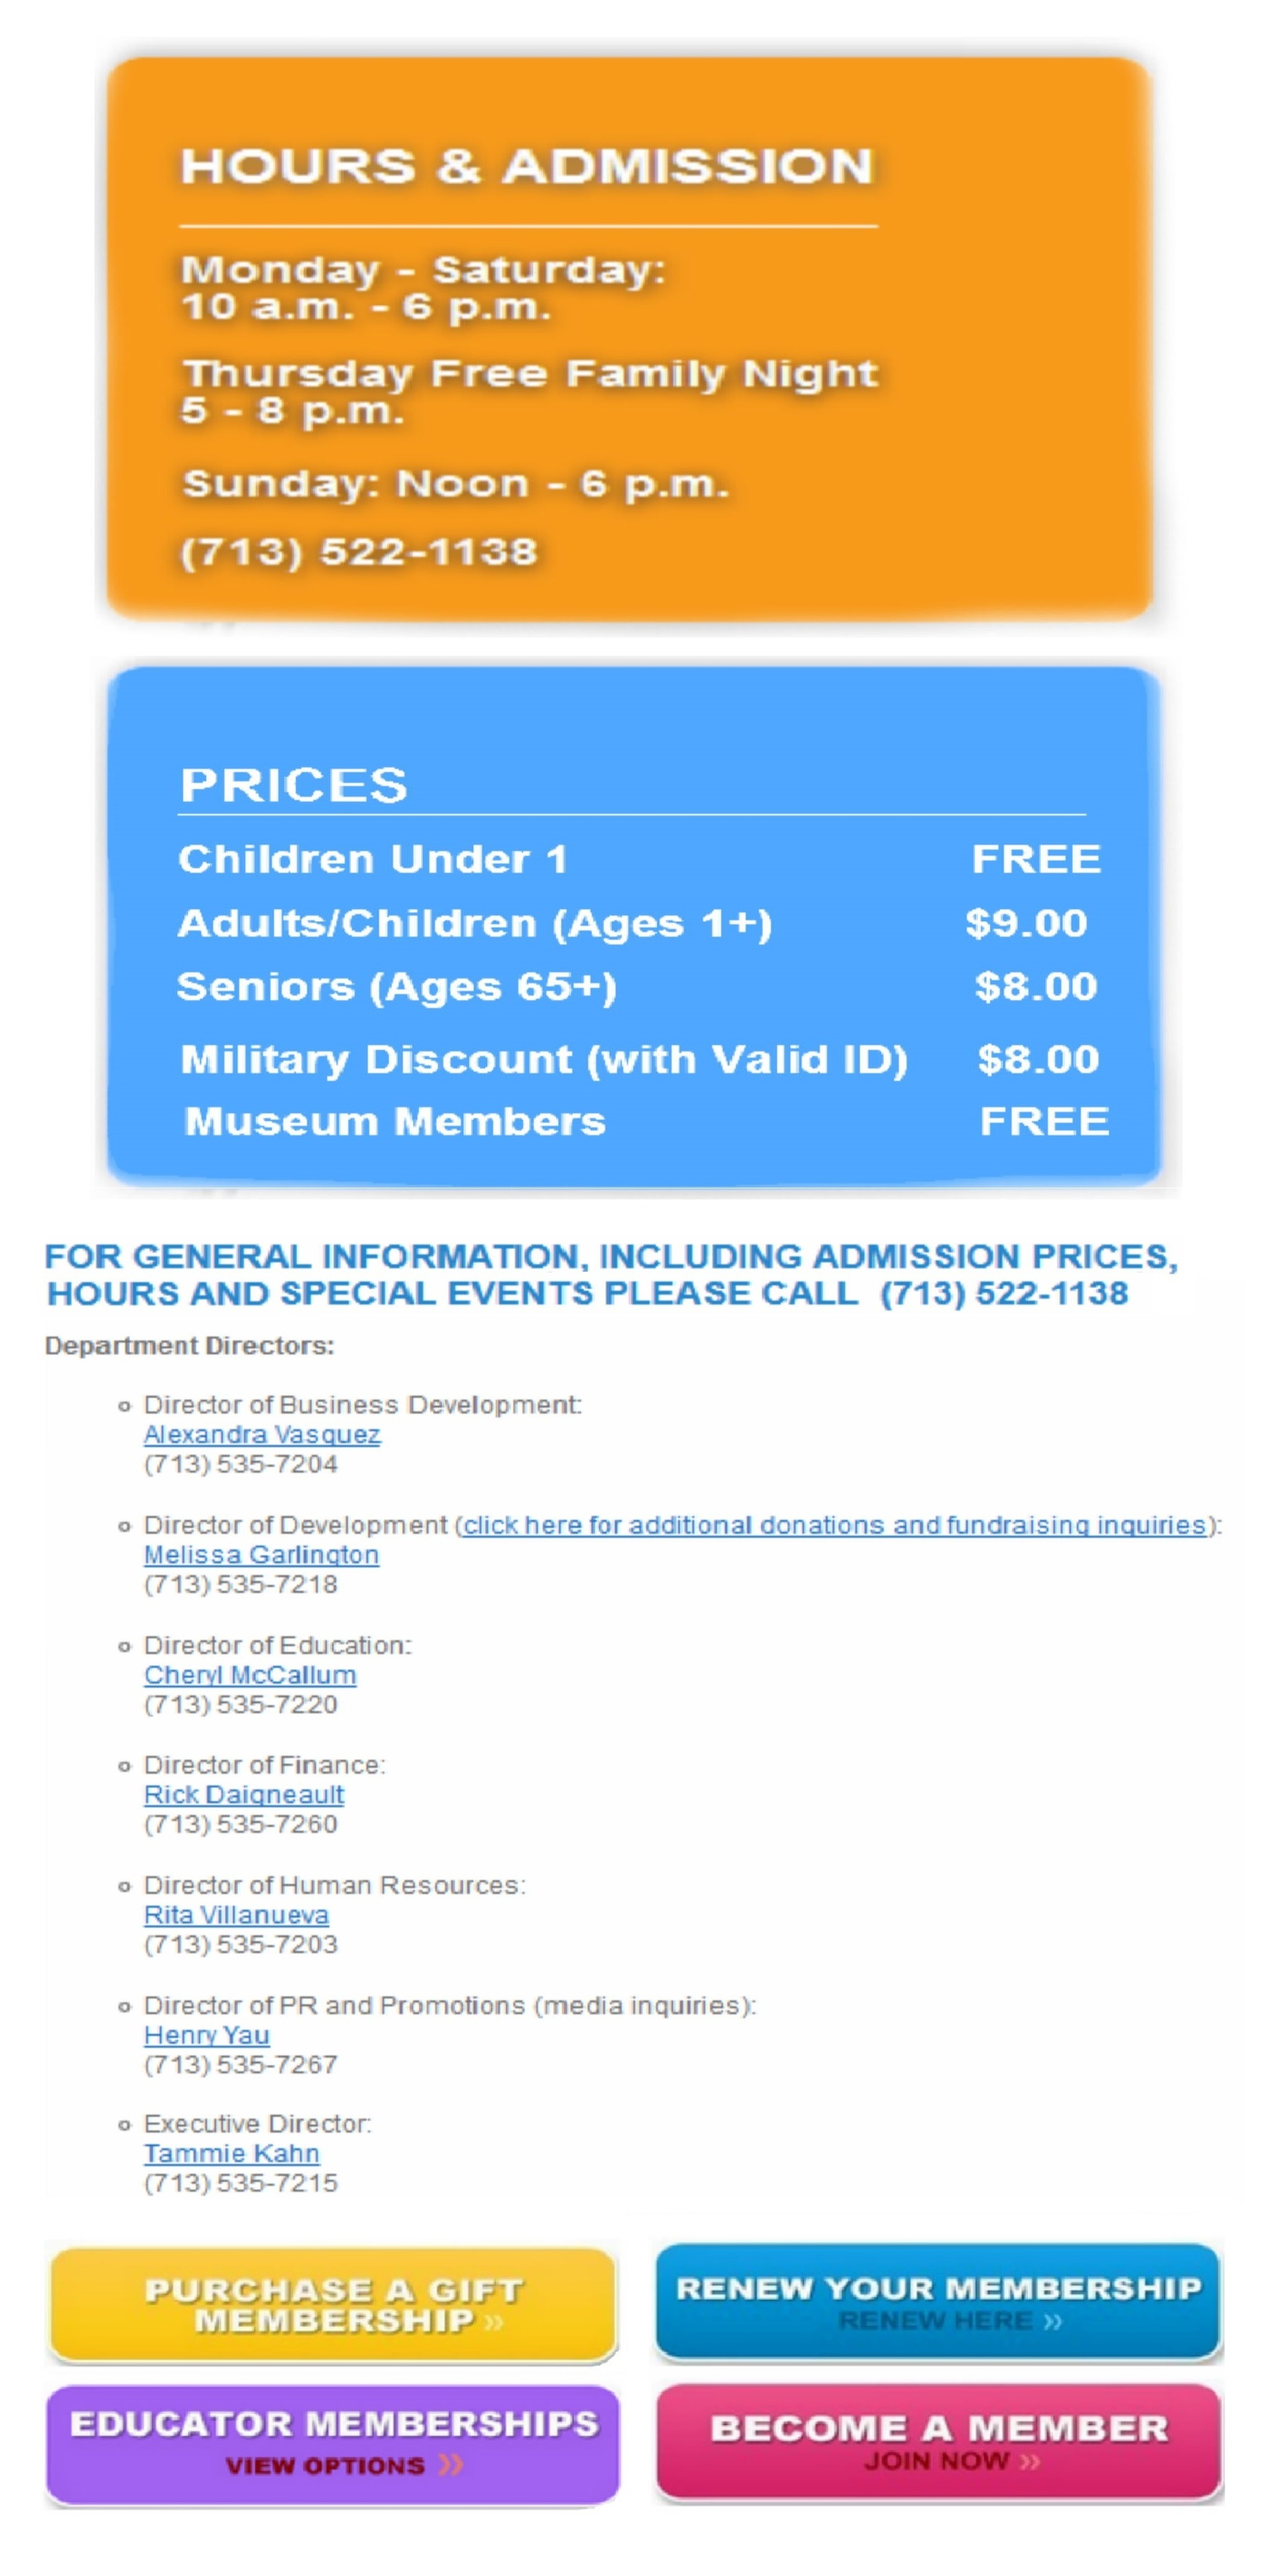
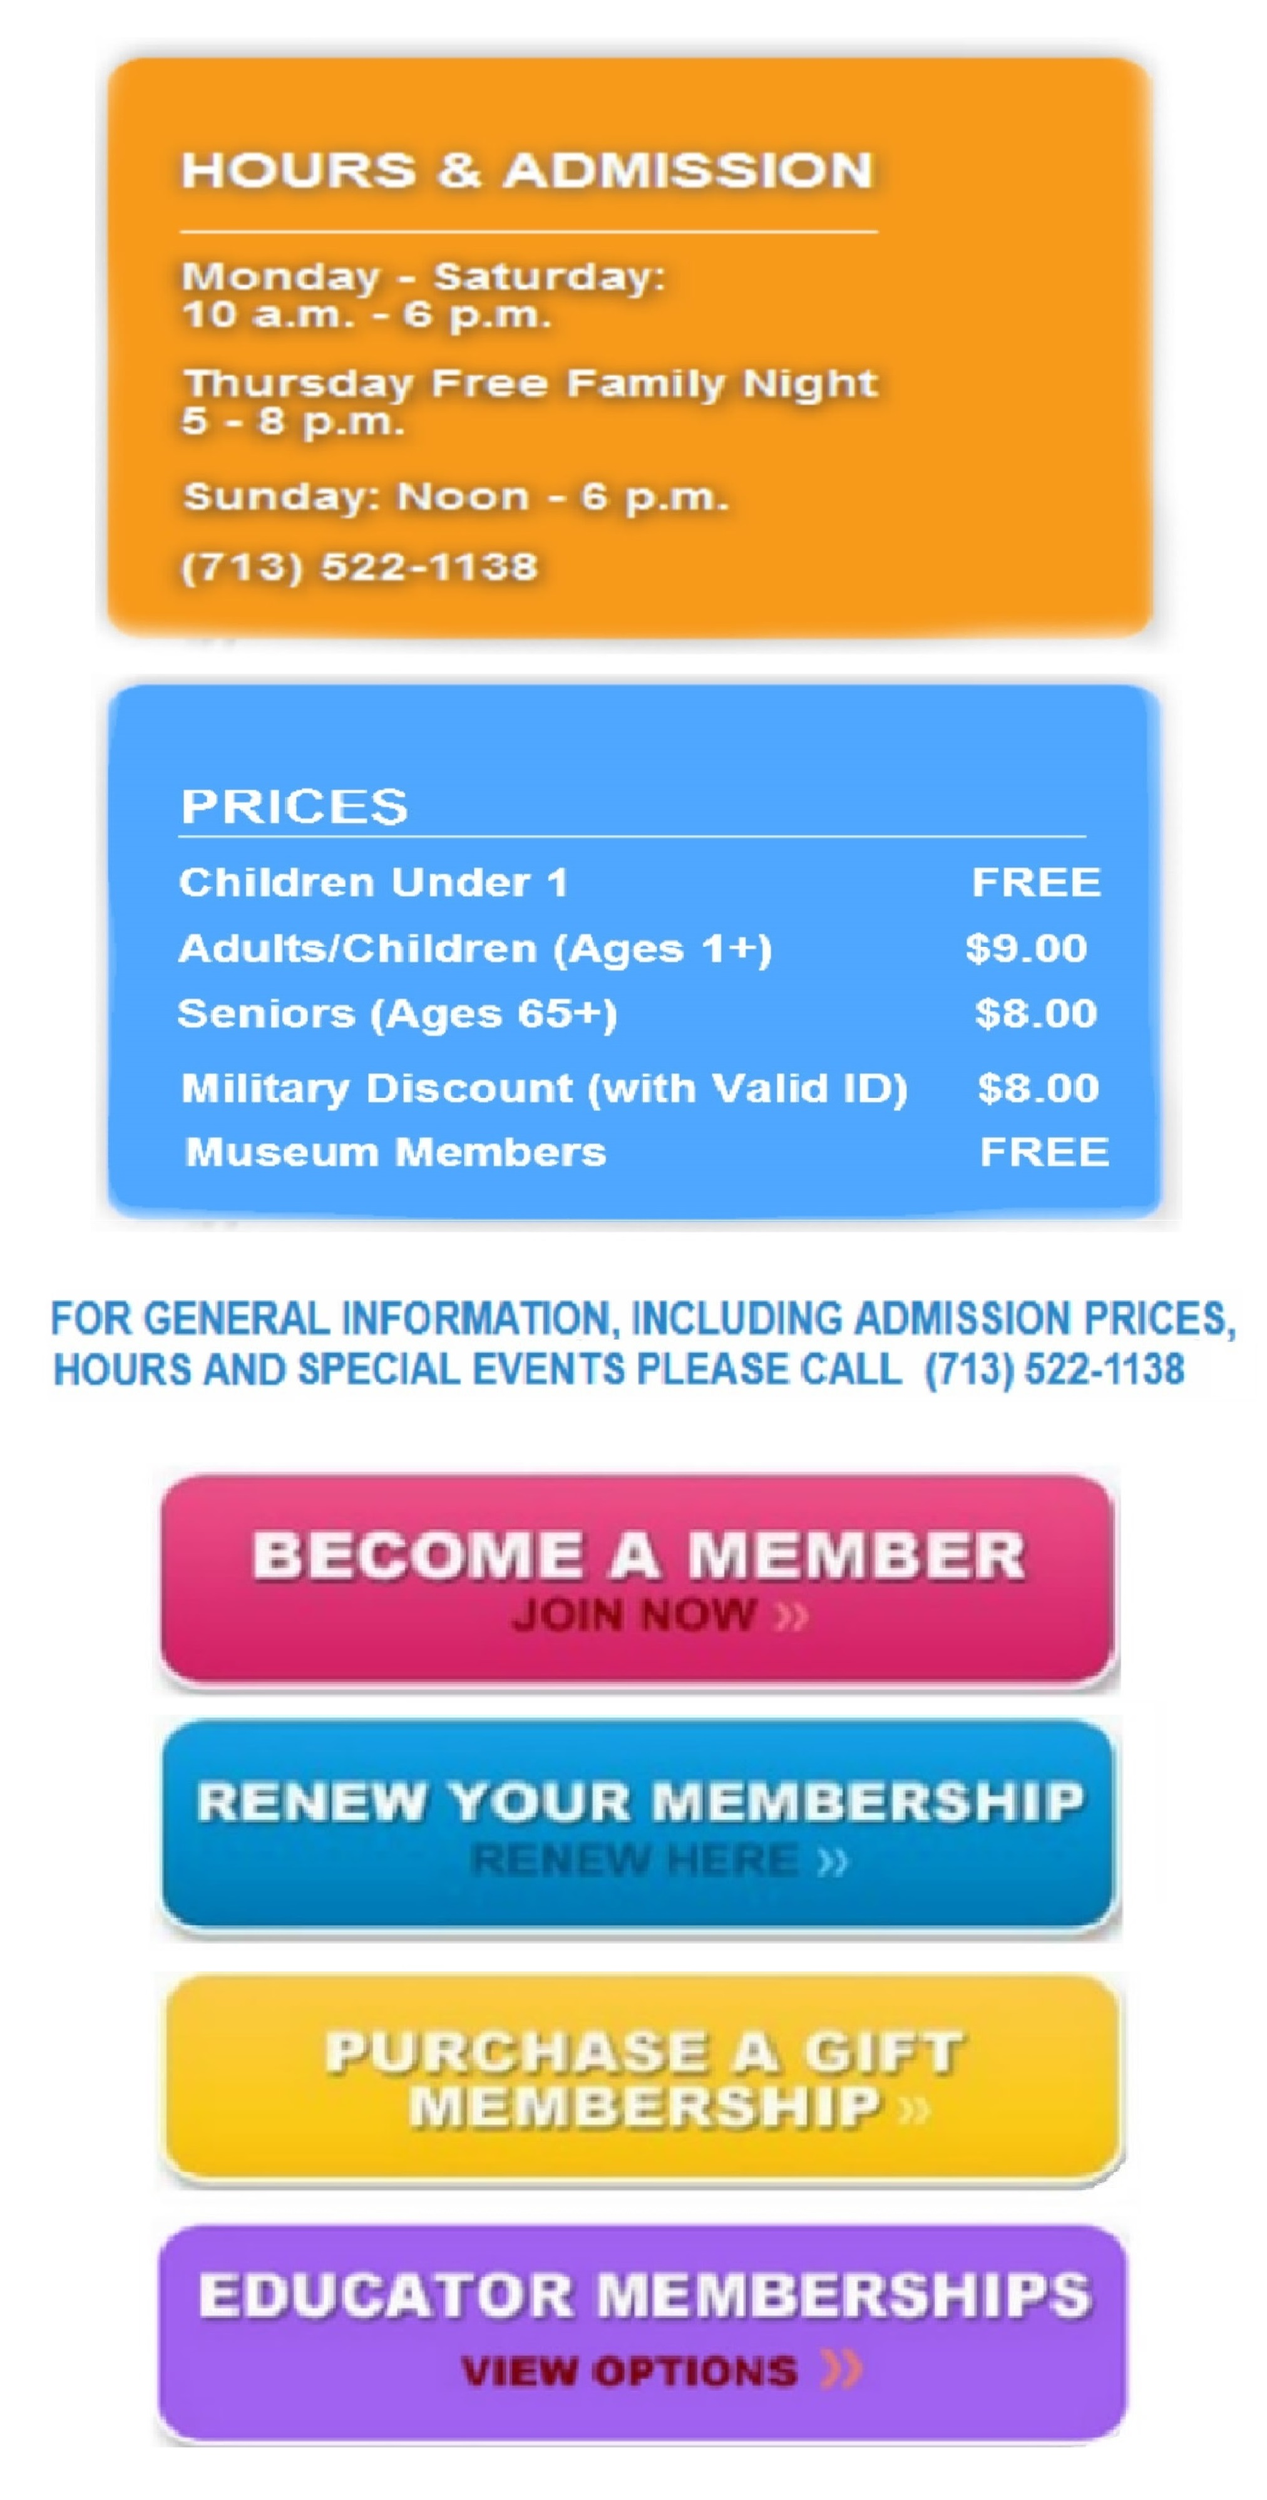
new info pic

diff --git a/app/controllers/info.js b/app/controllers/info.js
@@ -30,10 +30,16 @@ function insertInfoPicture() {
 	});
 
 	var image = Ti.UI.createImageView({
-		image : "/images/MuseumInfo.jpg",
+		image : "/images/MuseumInfoNoMember.jpg",
+		backgroundColor:'transparent', 
 		width : '100%',
 		height : '100%'
 	});
+	
+	image.addEventListener('pinch', function(e) { 
+		var t = Ti.UI.create2DMatrix().scale(e.scale); 
+		image.transform = t; 
+		});
 
 	view.add(image);
 
